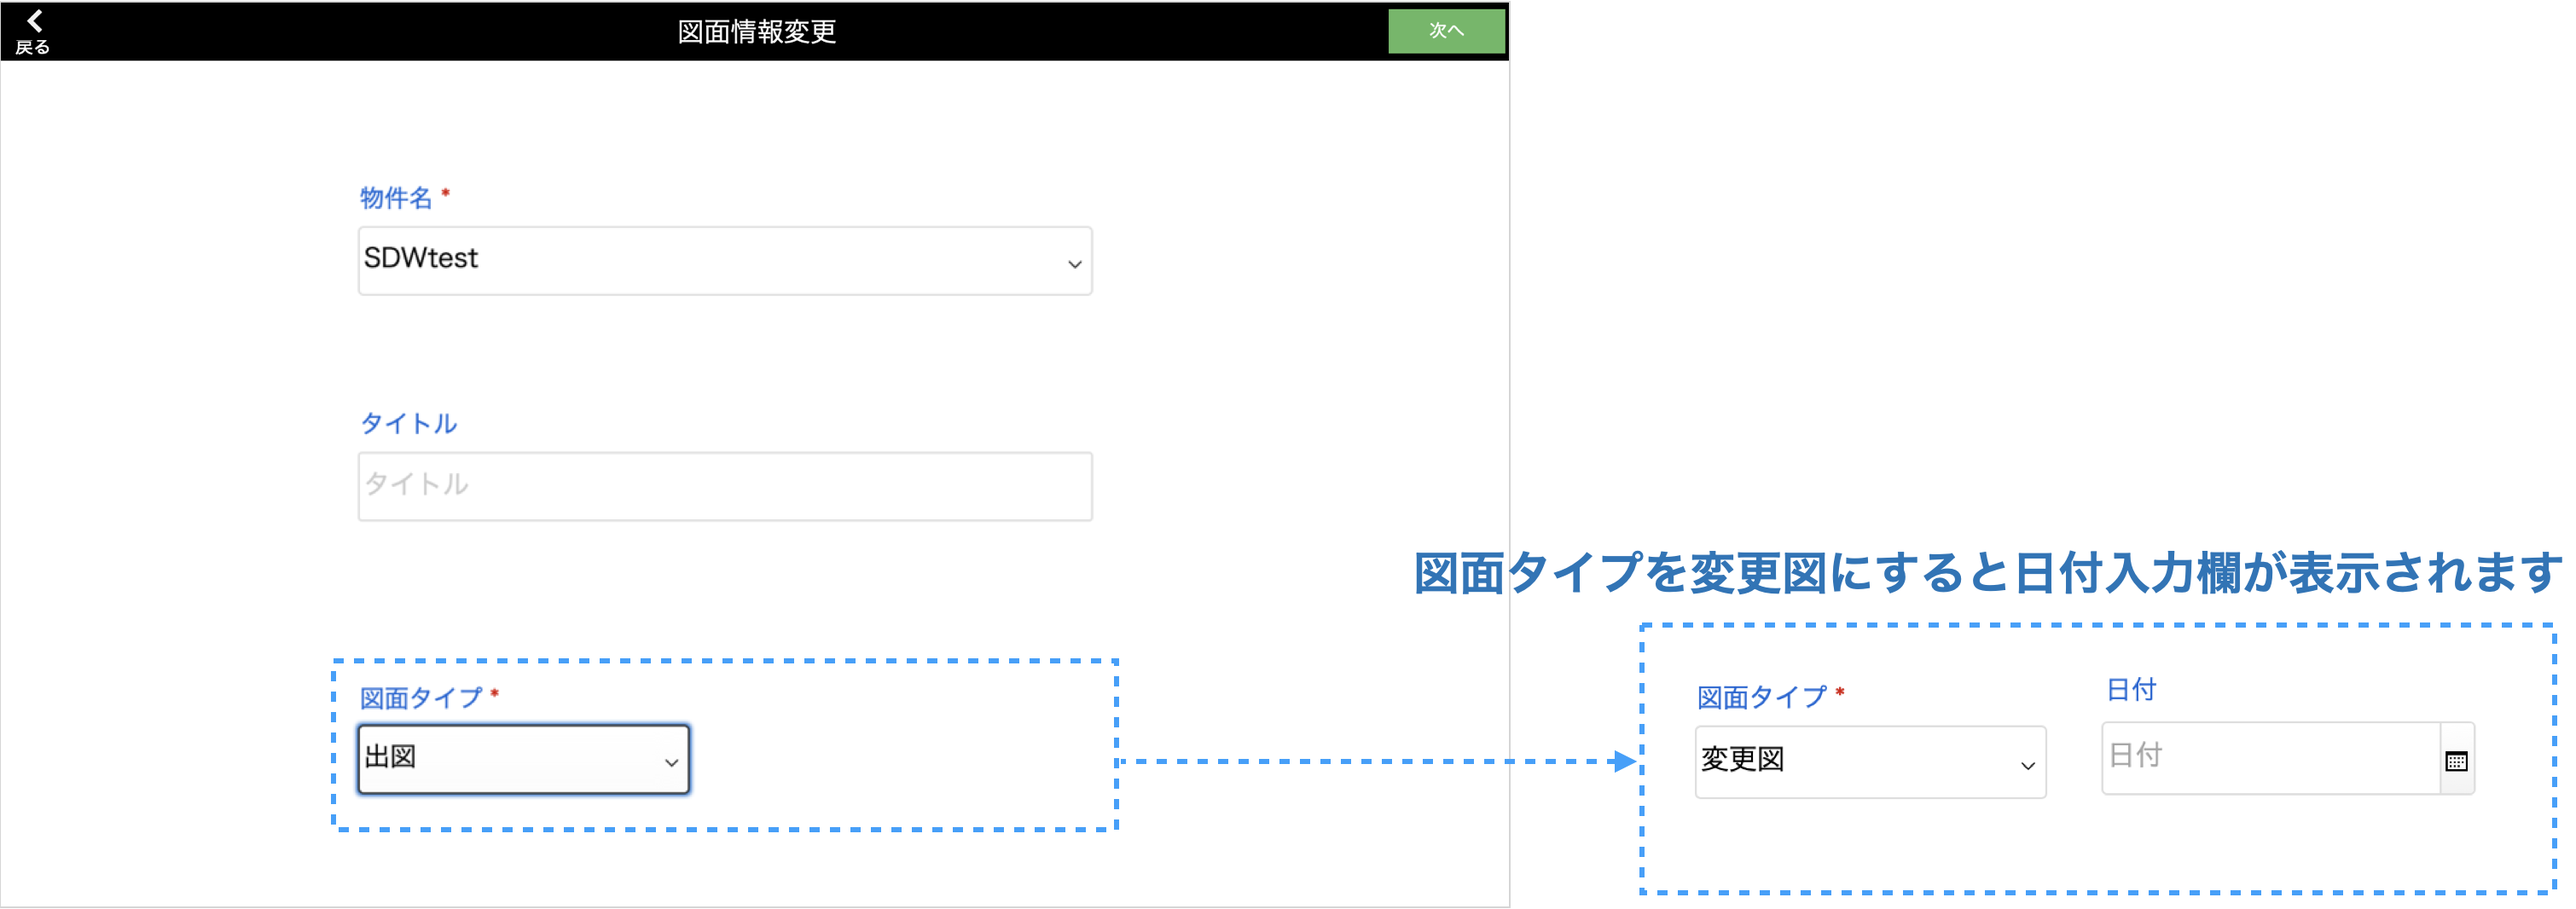
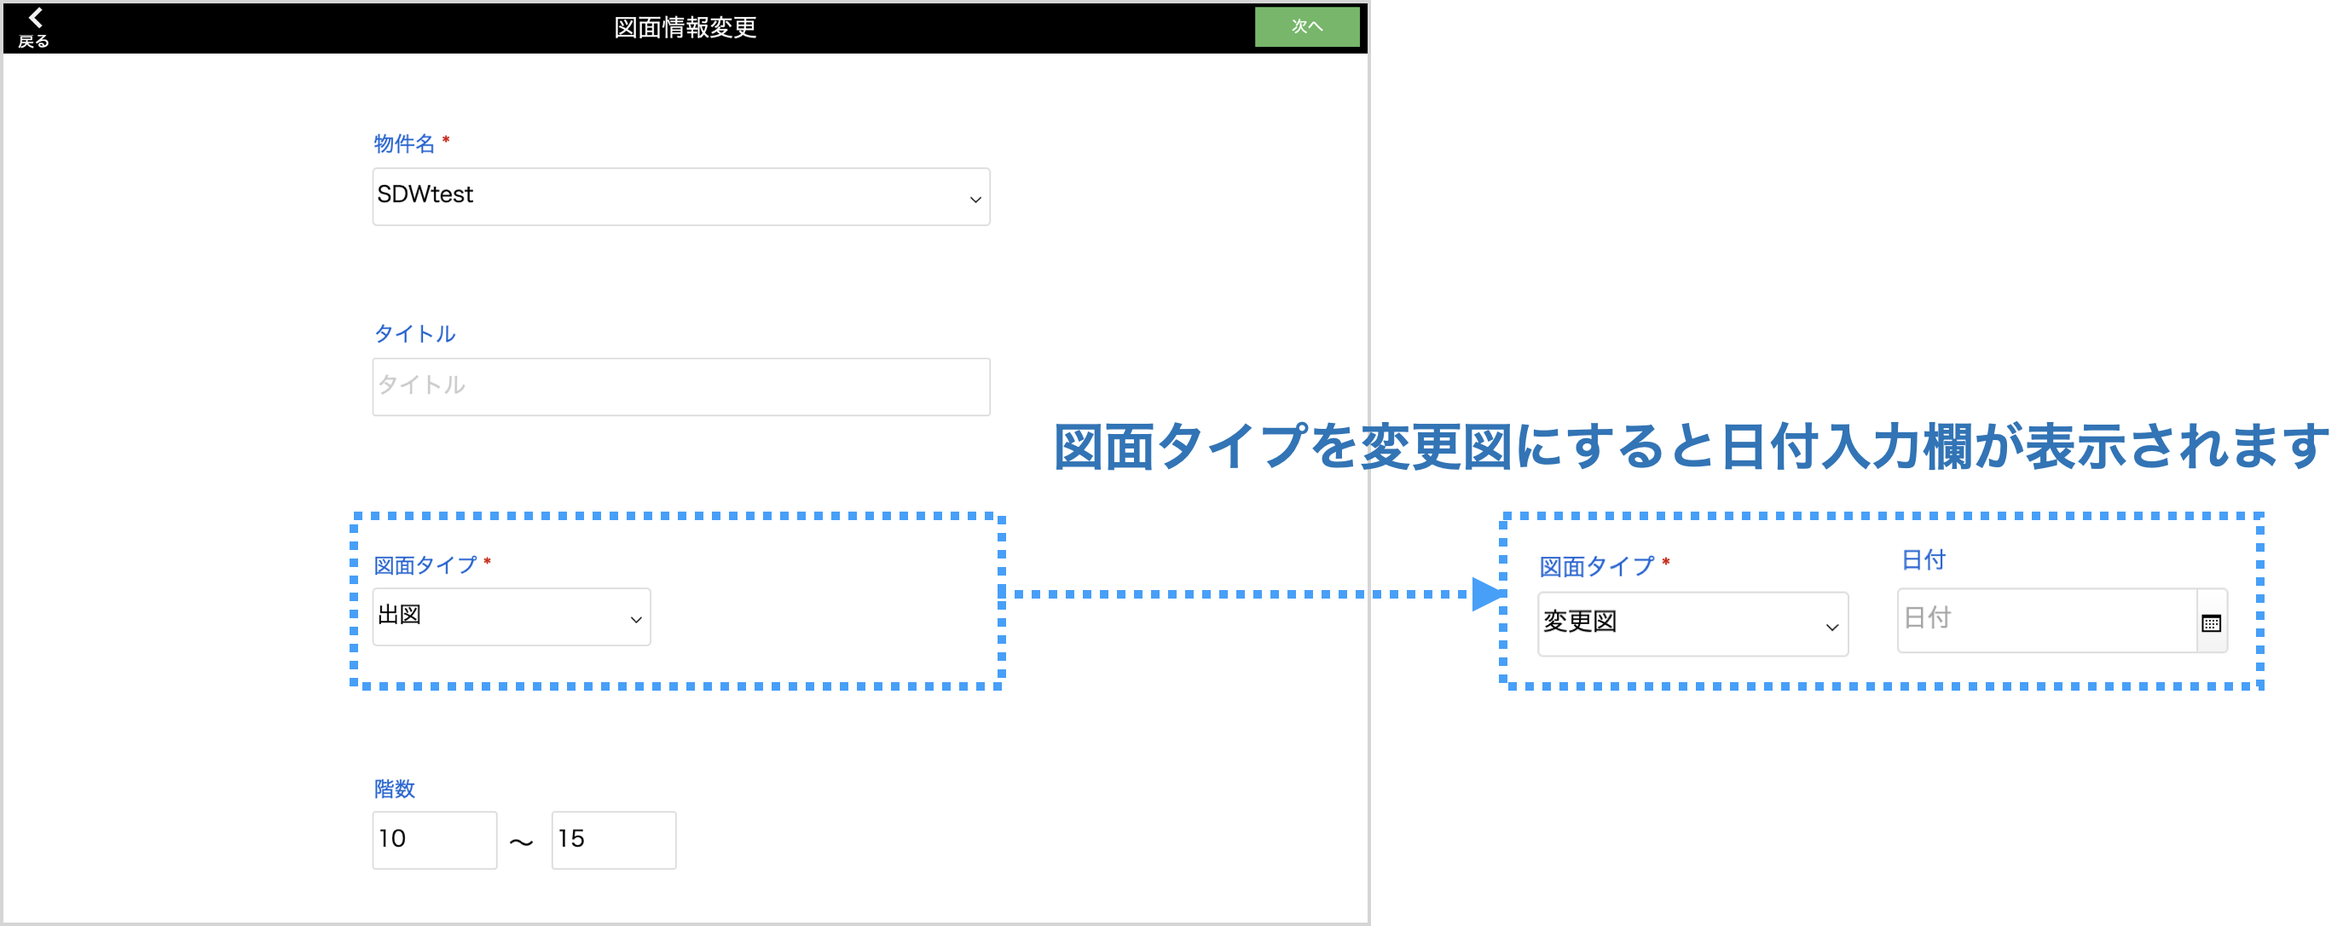
図面登録チェック画面説明文追加

diff --git a/docs/quality-control/administrator/ocr-draw/index.md b/docs/quality-control/administrator/ocr-draw/index.md
@@ -26,8 +26,11 @@ has_children: false
 1. 必須項目を入力して「登録」を選択して完了です。
 
     <table><tr><td>
-    <img src="../../../../assets/images/quality-control/administrator/ocr-draw/3.png" width="70%">
+    <img src="../../../../assets/images/quality-control/administrator/ocr-draw/3.png" width="80%">
     </td></tr></table>
+
+    {: .note }
+    階数は図面登録チェック画面での製品の検索範囲に使用されます。
 
     {: .warning }
     枚数が多いと登録に時間がかかります。
@@ -104,9 +107,8 @@ OCR読取はMacもしくはiPadのみで使用できる機能です。
     | 入力部材名                       | 対象製品番号                                           | 
     | -------------------------------- | ------------------------------------------------------ | 
     | 37C-19                           | 37C-19                                                 | 
-    | 37·38C-19                        | 37C-19、38C-19                                         | 
     | 37C~41C-19                       | 37C-19、38C-19、39C-19、40C-19、41C-19                 | 
-    | 30C-20<br>40·41C-20<br>50~53C-20 | 30C-20、40C-20、41C-20、50C-20、51C-20、52C-20、53C-20 | 
+    | 30C-20<br>40~41C-20<br>50~53C-20 | 30C-20、40C-20、41C-20、50C-20、51C-20、52C-20、53C-20 | 
 
 
     {: .warning }
@@ -121,6 +123,9 @@ OCR読取はMacもしくはiPadのみで使用できる機能です。
     <table><tr><td>
     <img src="../../../../assets/images/quality-control/administrator/ocr-draw/10.png" width="95%">
     </td></tr></table>
+
+    {: .warning }
+    図面アップロードを行う前に階数の入力をしてください。
 
 1. 入力した図面番号と部材名が一覧で表示されます。  
     変更図として登録し日付を入力した場合は、日付付き図面番号が表示されます。
@@ -149,7 +154,7 @@ OCR読取はMacもしくはiPadのみで使用できる機能です。
 
 ### 図面アップロード
 
-1. [出図・変更図一覧]画面の右上にある「アップロード」を選択して完了です。
+1. [出図・変更図一覧]画面の右上にある「アップロード」を選択して完了です。アップロード後は参照画面に切り替わります。
 
     <table><tr><td>
     <img src="../../../../assets/images/quality-control/administrator/ocr-draw/14.png" width="75%">
@@ -158,11 +163,43 @@ OCR読取はMacもしくはiPadのみで使用できる機能です。
     {: .warning }
     確認欄①,②にチェックをつけることで図面のアップロードが可能となります。
 
+    {: .warning }
+    階数が未入力の場合は、図面情報変更画面にて階数の入力を行ってからアップロードしてください。
+
 1. アップロードが完了した図面は編集不可となり、参照のみ可能となります。
 
     <table><tr><td>
     <img src="../../../../assets/images/quality-control/administrator/ocr-draw/15.png" width="85%">
     </td></tr></table>
+
+<br>
+
+### 図面登録チェック
+
+1. 図面一覧画面の「参照」ボタンから[出図or変更図一覧 参照]画面に移動します。  
+    画面右上にある「図面登録チェック」を選択し、[図面登録チェック]画面に遷移します。
+
+    <table><tr><td>
+    <img src="../../../../assets/images/quality-control/administrator/ocr-draw/18.png" width="75%">
+    </td></tr></table>
+
+    {: .warning }
+    対象製品の件数が多いと、表示に時間がかかります。
+
+1. 物件と設定した階数の範囲で絞り込まれた製品情報が一覧で表示されます。
+
+    ○絞り込み条件詳細
+    - 「図面有無」  
+    1枚でも図面データが登録されている製品を、図面有りと判定します。
+    - 「未登録図面有無」  
+    図面番号が入力されていて図面データが登録されていない製品を、図面未登録有りと判定します。
+
+    <table><tr><td>
+    <img src="../../../../assets/images/quality-control/administrator/ocr-draw/19.png" width="100%">
+    </td></tr></table>
+
+    {: .note }
+    デフォルトで、図面有りの製品で絞り込まれます。
 
 <br>
 

diff --git a/CHANGELOG.md b/CHANGELOG.md
@@ -25,3 +25,7 @@ nav_order: 108
 ### 2024/10/29 
 
 - [OCR図面アップロード]({% link docs/quality-control/administrator/ocr-draw/index.md%})　更新
+
+### 2025/01/08 
+
+- [OCR図面アップロード]({% link docs/quality-control/administrator/ocr-draw/index.md%})　更新
